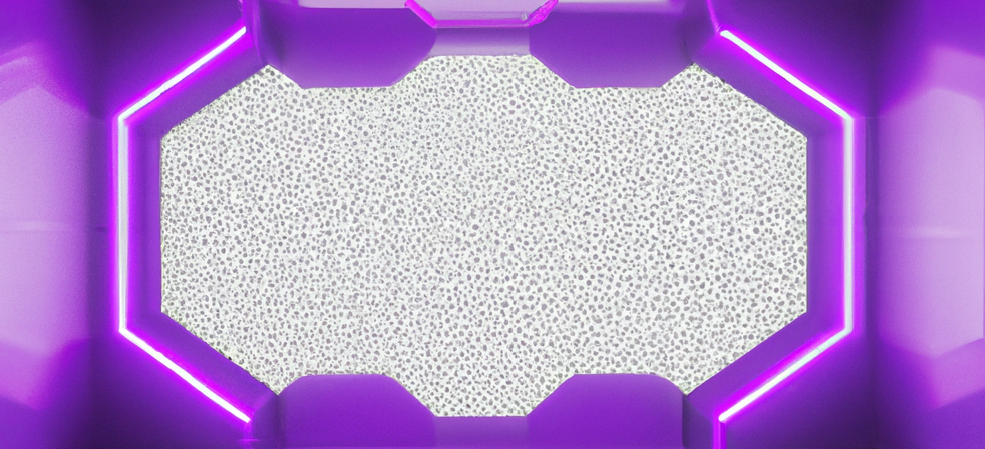
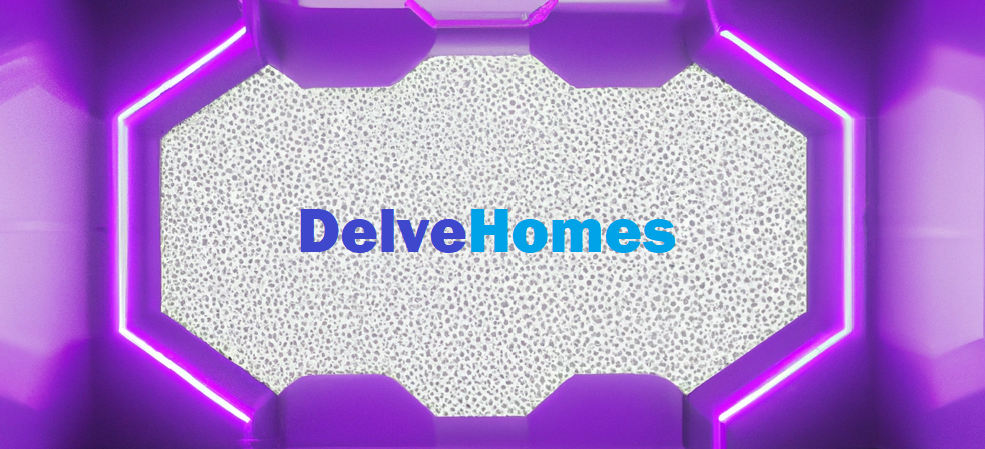
edited css and html files
Changed CSS and HTML files to have better layouts adn also to contain better things

Changed region(s): [[0.3046, 0.4677, 0.7005, 0.5612]]

diff --git a/experience.html b/experience.html
@@ -61,7 +61,7 @@ our new systems with their newest protection setup and their top of the line scr
 you can live comfortably within this area.
         </p>
         <div class="rev-cont">
-            <img src="" alt="" class="review-img">
+            <img src="DelveHomes-Transparent.png" alt="" class="review-img">
             <div class="row-1 rev">
                 <h3>Karla</h3>
                 <br>
@@ -78,10 +78,10 @@ you can live comfortably within this area.
                     The homes are comfortable and relaxing. The machines do everything that I need to do. I need to admit this home makes it easier to relax than the above world.
                 </p>
             </div>
-            <img src="" alt="" class="review-img">
+            <img src="DelveHomes-Transparent.png" alt="" class="review-img">
         </div>
         <div class="rev-cont">
-            <img src="" alt="" class="review-img">
+            <img src="DelveHomes-Transparent.png" alt="" class="review-img">
             
             <div class="row-1 rev">
                 <h3>Noah</h3>
@@ -99,7 +99,7 @@ you can live comfortably within this area.
                     DelveHomes performed beyond my expectations and believe me, they were high to begin with. Their customer service is wonderful and I can not stress enough how much I love their homes! From the music to the food and even the airship, everything is perfect. 
                 </p>
             </div>
-            <img src="" alt="" class="review-img">
+            <img src="DelveHomes-Transparent.png" alt="" class="review-img">
         </div>
     </div>
 </body>

diff --git a/css/styles.css b/css/styles.css
@@ -40,14 +40,22 @@ select,input[type=\"submit\"]{
 /* content for the amenities */
 .content_amen p{
     text-decoration:none;
-    font:18px Georgia,\'Times New Roman\',Times,serif;
+    font-size:1.5rem;
+    font-weight:lighter;
 }
 
 .content_amen{
     margin:5px 15px;
     border:solid #000 2px;
     padding:15px;
+    font: Georgia,\'Times New Roman\',Times,serif;
 }
+
+.content_amen h2 {
+    font-size:2rem;
+    font-weight:bolder;
+}
+
 /* form stuff */
 .form_submit:active{
     background-color:#319835;
@@ -137,6 +145,11 @@ select,input[type=\"submit\"]{
     background-image:linear-gradient(transparent,#c58de0);
 }
 
+a:after,
+a:before {
+    color:#b97cd7;
+}
+
 /* preview stuff for index */
 .exp_prev,
 .pri_prev,
@@ -222,15 +235,15 @@ select,input[type=\"submit\"]{
 
 .rev-cont {
     display:flex;
-    justify-content:center;
+    justify-content:space-around;
     align-items:center;
-    flex-direction:column;
+    flex-direction:row;
     border:black solid;
     margin:15px;
+    background-image:linear-gradient(transparent,#c58de0);
 }
 
 .review-img {
     width:auto;
     height:100px;
-
 }

diff --git a/index.html b/index.html
@@ -53,7 +53,8 @@
     </div>
 
     <br>
-
+    <img src="./DelveHomes-Transparent.png" alt="">
+    <br>
     <footer>
         <h3 class="form_title">Ready to get started?</h3>
         <br>
